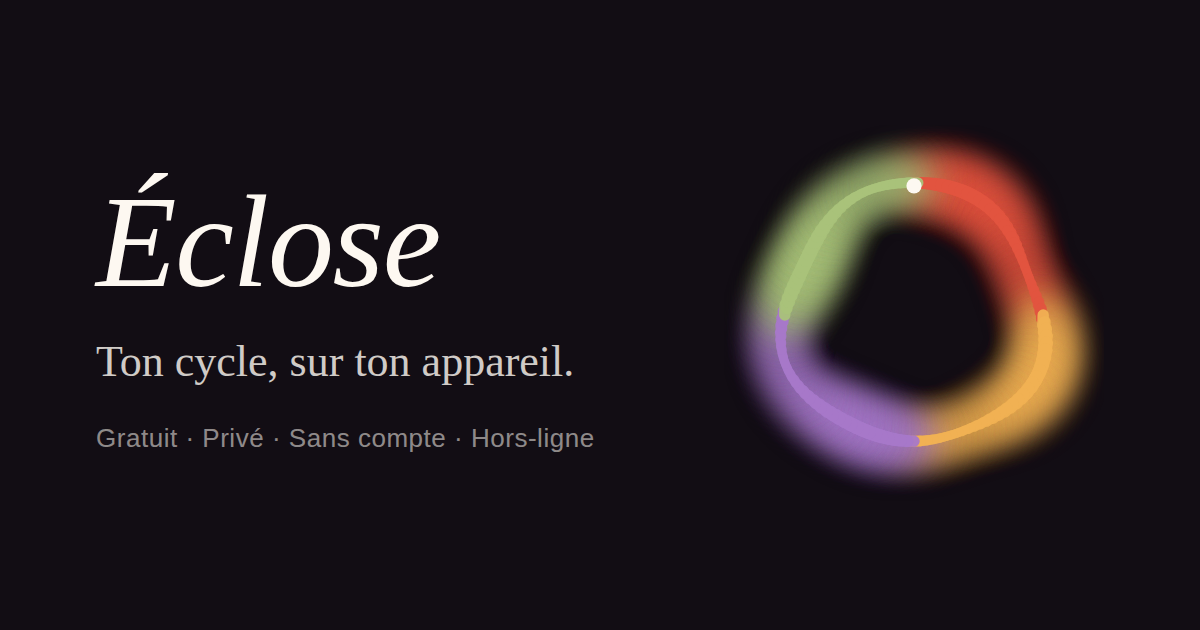
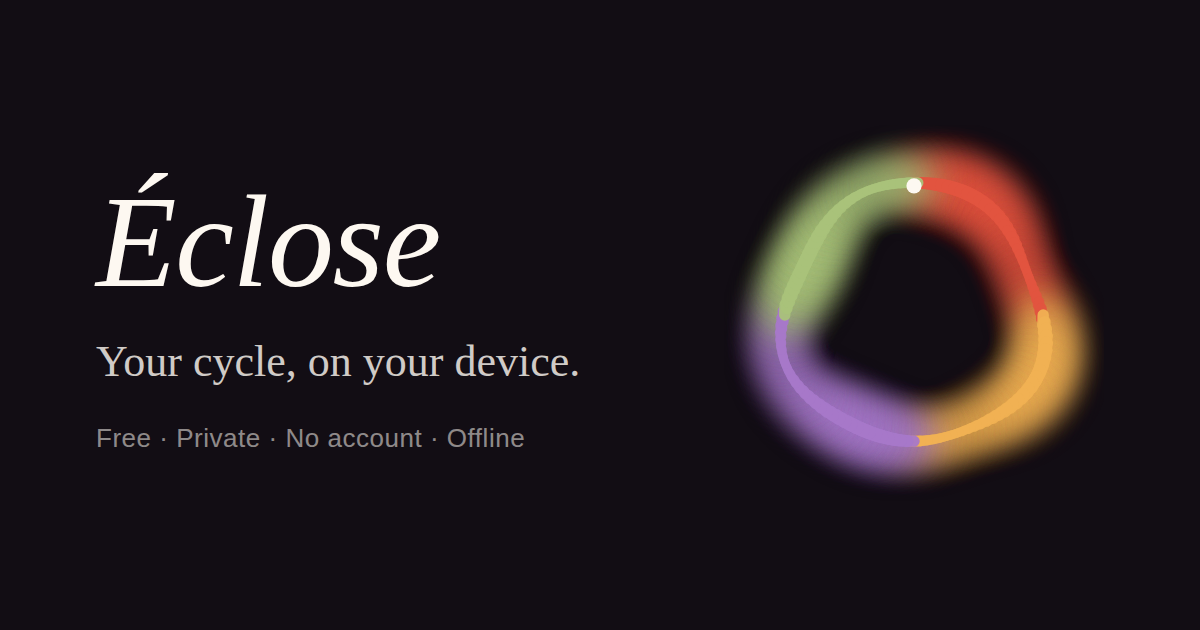
feat: make English the default language for SEO and the app
New users open the app in English (widest audience for sharing); French
stays one tap away in Settings.

- lib/config.ts: DEFAULT_LOCALE 'en', APP_DESCRIPTION and APP_KEYWORDS in
  English (the canonical tagline is now "Your cycle, on your device.").
- app/layout.tsx: <html lang="en">, OpenGraph locale en_GB (AppShell still
  overrides <html lang> to the user's chosen locale at runtime).
- Discover pages: x-default hreflang now points at /discover (English) so
  search engines serve English when no language matches.
- manifest: description + shortcut/screenshot labels sourced from en.
- Regenerate the share card and install screenshots in English.
- e2e: translate the French selectors to the new English default (the
  language-toggle flow now switches en → fr → en). Parity keeps its French
  seed to match the French reference prototype.

Claude-Session: https://claude.ai/code/session_01Kt8Bc7rrRivpuJFks7FxwY

Changed region(s): [[0.0617, 0.5429, 0.4933, 0.6333], [0.0617, 0.6635, 0.4933, 0.7238]]

diff --git a/e2e/backup-roundtrip.spec.ts b/e2e/backup-roundtrip.spec.ts
@@ -12,40 +12,40 @@ test('export chiffré, effacement, import : les données reviennent', async ({ p
   // — données : onboarding aujourd'hui + un symptôme
   const todayNum = String(new Date().getDate());
   await page.getByRole('button', { name: todayNum, exact: true }).click();
-  await page.getByRole('button', { name: 'commencer' }).click();
+  await page.getByRole('button', { name: 'begin' }).click();
   await page.getByRole('button', { name: 'fatigue' }).click();
 
   // — export
-  await page.getByRole('link', { name: 'réglages' }).click();
-  await page.getByRole('button', { name: /exporter mes données/ }).click();
-  await page.getByPlaceholder('phrase secrète', { exact: true }).fill('phrase de test e2e');
-  await page.getByPlaceholder('encore une fois').fill('phrase de test e2e');
+  await page.getByRole('link', { name: 'settings' }).click();
+  await page.getByRole('button', { name: /export my data/ }).click();
+  await page.getByPlaceholder('secret phrase', { exact: true }).fill('phrase de test e2e');
+  await page.getByPlaceholder('once more').fill('phrase de test e2e');
   const downloadPromise = page.waitForEvent('download');
-  await page.getByRole('dialog').getByRole('button', { name: 'exporter mes données' }).click();
+  await page.getByRole('dialog').getByRole('button', { name: 'export my data' }).click();
   const download = await downloadPromise;
   const filePath = await download.path();
   await page.keyboard.press('Escape');
 
   // — effacement total (double confirmation)
-  await page.getByRole('button', { name: 'tout effacer' }).click();
-  await page.getByRole('button', { name: 'effacer, vraiment ?' }).click();
-  await page.getByRole('button', { name: /dernière confirmation/ }).click();
-  await expect(page.getByText('Quand ont commencé tes dernières règles ?')).toBeVisible();
+  await page.getByRole('button', { name: 'erase everything' }).click();
+  await page.getByRole('button', { name: 'erase, really?' }).click();
+  await page.getByRole('button', { name: /last confirmation/ }).click();
+  await expect(page.getByText('When did your last period start?')).toBeVisible();
 
   // — import : préviu puis fusion
   await page.goto('/settings');
   const chooser = page.waitForEvent('filechooser');
-  await page.getByRole('button', { name: /importer un fichier/ }).click();
+  await page.getByRole('button', { name: /import a file/ }).click();
   await (await chooser).setFiles(filePath);
-  await page.getByPlaceholder('phrase secrète').fill('phrase de test e2e');
-  await page.getByRole('dialog').getByRole('button', { name: 'confirmer' }).click();
-  await expect(page.getByText(/1 cycles, 1 jours de logs/)).toBeVisible();
-  await page.getByRole('button', { name: 'fusionner' }).click();
-  await expect(page.getByText("c'est importé")).toBeVisible();
+  await page.getByPlaceholder('secret phrase').fill('phrase de test e2e');
+  await page.getByRole('dialog').getByRole('button', { name: 'confirm' }).click();
+  await expect(page.getByText(/1 cycles, 1 days of logs/)).toBeVisible();
+  await page.getByRole('button', { name: 'merge' }).click();
+  await expect(page.getByText('imported')).toBeVisible();
   await page.keyboard.press('Escape'); // fermer la feuille avant de naviguer
 
   // — tout est revenu : cadran à J1, symptôme coché
-  await page.getByRole('link', { name: "aujourd'hui" }).click();
+  await page.getByRole('link', { name: 'today' }).click();
   await expect(page.getByRole('button', { name: 'fatigue' })).toHaveAttribute(
     'aria-pressed',
     'true',

diff --git a/e2e/flows.spec.ts b/e2e/flows.spec.ts
@@ -6,39 +6,39 @@ test('corriger un jour dans l’historique, persistance, langue', async ({ page 
   await page.goto('/');
   const todayNum = String(new Date().getDate());
   await page.getByRole('button', { name: todayNum, exact: true }).click();
-  await page.getByRole('button', { name: 'commencer' }).click();
-  await page.getByText("aujourd'hui, en un geste").waitFor();
+  await page.getByRole('button', { name: 'begin' }).click();
+  await page.getByText('today, in one gesture').waitFor();
 
   // — historique : cycle en cours visible, correction du jour J1
-  await page.getByRole('link', { name: 'historique' }).click();
-  await page.getByText('cycle en cours').click();
+  await page.getByRole('link', { name: 'history' }).click();
+  await page.getByText('current cycle').click();
   await page.getByRole('button', { name: todayNum, exact: true }).click();
   const dialog = page.getByRole('dialog');
   await expect(dialog).toBeVisible();
-  await dialog.getByRole('button', { name: 'maux de tête' }).click();
-  await dialog.getByPlaceholder('une note pour ce jour, si tu veux').fill('note de test');
+  await dialog.getByRole('button', { name: 'headache' }).click();
+  await dialog.getByPlaceholder('a note for this day, if you like').fill('note de test');
   await page.keyboard.press('Escape');
   await expect(dialog).not.toBeVisible();
 
   // — persistance après rechargement
   await page.reload();
-  await page.getByText('cycle en cours').click();
+  await page.getByText('current cycle').click();
   await page.getByRole('button', { name: todayNum, exact: true }).click();
-  await expect(dialog.getByRole('button', { name: 'maux de tête' })).toHaveAttribute(
+  await expect(dialog.getByRole('button', { name: 'headache' })).toHaveAttribute(
     'aria-pressed',
     'true',
   );
-  await expect(dialog.getByPlaceholder('une note pour ce jour, si tu veux')).toHaveValue(
+  await expect(dialog.getByPlaceholder('a note for this day, if you like')).toHaveValue(
     'note de test',
   );
   await page.keyboard.press('Escape');
 
-  // — langue : l'app passe en anglais puis revient
-  await page.getByRole('link', { name: 'réglages' }).click();
-  await page.getByRole('button', { name: 'english' }).click();
-  await expect(page.getByRole('link', { name: 'today' })).toBeVisible();
+  // — langue : l'app (anglais par défaut) passe en français puis revient
+  await page.getByRole('link', { name: 'settings' }).click();
   await page.getByRole('button', { name: 'français' }).click();
   await expect(page.getByRole('link', { name: "aujourd'hui" })).toBeVisible();
+  await page.getByRole('button', { name: 'english' }).click();
+  await expect(page.getByRole('link', { name: 'today' })).toBeVisible();
 
   // — la version du build est affichée dans « à propos »
   await expect(page.getByText(/version \d+\.\d+\.\d+ · [0-9a-f]{7} · \d{4}-\d{2}-\d{2}/)).toBeVisible();

diff --git a/e2e/log-journey.spec.ts b/e2e/log-journey.spec.ts
@@ -7,20 +7,20 @@ test('onboarding une question, saisie en un geste, données persistées', async 
 
   // — onboarding : une seule question, date picker custom.
   // On choisit aujourd'hui → J1, phase menstruelle → chips par défaut stables.
-  await expect(page.getByText('Quand ont commencé tes dernières règles ?')).toBeVisible();
+  await expect(page.getByText('When did your last period start?')).toBeVisible();
   const todayNum = String(new Date().getDate());
   await page.getByRole('button', { name: todayNum, exact: true }).click();
-  await page.getByRole('button', { name: 'commencer' }).click();
+  await page.getByRole('button', { name: 'begin' }).click();
 
   // — cadran : jour du cycle affiché, phrase contextuelle, prédiction honnête
-  await expect(page.getByText("aujourd'hui, en un geste")).toBeVisible();
+  await expect(page.getByText('today, in one gesture')).toBeVisible();
   await expect(page.locator('canvas')).toBeVisible();
-  await expect(page.getByText(/Prochaines règles|prédiction/)).toBeVisible();
+  await expect(page.getByText(/Next period|prediction/i)).toBeVisible();
 
-  // — saisie : chip règles, deux taps → intensité 2, « c'est noté »
-  const flowChip = page.getByRole('button', { name: /règles/ });
+  // — saisie : chip règles, deux taps → intensité 2, « noted »
+  const flowChip = page.getByRole('button', { name: /period/i });
   await flowChip.click();
-  await expect(page.getByText("c'est noté")).toBeVisible();
+  await expect(page.getByText('noted')).toBeVisible();
   await flowChip.click();
   await expect(flowChip).toHaveAttribute('aria-pressed', 'true');
 
@@ -30,13 +30,13 @@ test('onboarding une question, saisie en un geste, données persistées', async 
   // — feuille de phase au clavier (zone tactile SVG focusable), fermeture backdrop
   await page.locator('svg [role="button"]').first().press('Enter');
   await expect(page.getByRole('dialog')).toBeVisible();
-  await expect(page.getByText('Tes patterns', { exact: true })).toBeVisible();
+  await expect(page.getByText('Your patterns', { exact: true })).toBeVisible();
   await page.mouse.click(10, 10);
   await expect(page.getByRole('dialog')).not.toBeVisible();
 
   // — persistance : rechargement, tout est encore là (IndexedDB)
   await page.reload();
-  const flowAfter = page.getByRole('button', { name: /règles/ });
+  const flowAfter = page.getByRole('button', { name: /period/i });
   await expect(flowAfter).toHaveAttribute('aria-pressed', 'true');
   await expect(page.getByRole('button', { name: 'fatigue' })).toHaveAttribute(
     'aria-pressed',

diff --git a/app/manifest.ts b/app/manifest.ts
@@ -1,7 +1,7 @@
 import type { MetadataRoute } from 'next';
 import { APP_NAME, APP_DESCRIPTION, THEME_COLOR } from '@/lib/config';
-// le manifest est statique : comme APP_DESCRIPTION, il parle la langue par défaut
-import fr from '@/i18n/fr.json';
+// le manifest est statique : comme APP_DESCRIPTION, il parle la langue par défaut (anglais, §SEO)
+import en from '@/i18n/en.json';
 
 export const dynamic = 'force-static';
 
@@ -25,21 +25,21 @@ export default function manifest(): MetadataRoute.Manifest {
         sizes: '820x1760',
         type: 'image/png',
         form_factor: 'narrow',
-        label: fr.manifest.screenshot_today,
+        label: en.manifest.screenshot_today,
       },
       {
         src: '/screenshots/phase.png',
         sizes: '820x1760',
         type: 'image/png',
         form_factor: 'narrow',
-        label: fr.manifest.screenshot_phase,
+        label: en.manifest.screenshot_phase,
       },
     ],
     // appui long sur l'icône installée → saisie directe (le SW sert /?log=1 hors-ligne)
     shortcuts: [
       {
-        name: fr.manifest.shortcut_log,
-        description: fr.manifest.shortcut_log_desc,
+        name: en.manifest.shortcut_log,
+        description: en.manifest.shortcut_log_desc,
         url: '/?log=1',
         icons: [{ src: '/icons/icon-192.png', sizes: '192x192', type: 'image/png' }],
       },

diff --git a/lib/config.ts b/lib/config.ts
@@ -5,7 +5,7 @@
 export const APP_NAME = 'Éclose';
 export const APP_DOMAIN = 'eclose.app';
 export const APP_URL = `https://${APP_DOMAIN}`;
-export const APP_DESCRIPTION = 'Ton cycle, sur ton appareil.';
+export const APP_DESCRIPTION = 'Your cycle, on your device.';
 export const THEME_COLOR = '#120d14';
 
 /** Code source public (logiciel libre, AGPL-3.0). Lien externe uniquement —
@@ -17,19 +17,20 @@ export const REPO_URL = 'https://github.com/Meg4mi/eclosia';
 export const SUPPORT_URL = 'https://liberapay.com/Meg4mi';
 
 /** Mots-clés statiques pour le référencement (métadonnées de build, jamais
- * rendus dans l'UI). Registre calme, jamais médical ni contraceptif (§non-objectifs). */
+ * rendus dans l'UI). Langue par défaut = anglais (§SEO). Registre calme,
+ * jamais médical ni contraceptif (§non-objectifs). */
 export const APP_KEYWORDS = [
-  'suivi de cycle',
-  'cycle menstruel',
-  'règles',
-  'confidentialité',
-  'hors-ligne',
-  'sur l’appareil',
-  'sans compte',
+  'cycle tracker',
+  'menstrual cycle',
+  'period',
+  'privacy',
+  'offline',
+  'on-device',
+  'no account',
   'PWA',
 ] as const;
 
-export const DEFAULT_LOCALE = 'fr' as const;
+export const DEFAULT_LOCALE = 'en' as const;
 export const DEFAULT_PERIOD_LENGTH = 5;
 export const DEFAULT_CYCLE_LENGTH = 28;
 

diff --git a/e2e/network-audit.spec.ts b/e2e/network-audit.spec.ts
@@ -23,13 +23,14 @@ test('aucune requête externe, du boot à la navigation complète', async ({ pag
   booted = true;
 
   // parcours complet : onboarding → cadran → navigation → réglages
-  await page.getByRole('button', { name: 'je ne sais plus' }).click();
-  await expect(page.getByText("aujourd'hui, en un geste")).toBeVisible();
-  await page.getByRole('link', { name: 'historique' }).click();
+  // (langue par défaut = anglais, §SEO)
+  await page.getByRole('button', { name: "I don't remember" }).click();
+  await expect(page.getByText('today, in one gesture')).toBeVisible();
+  await page.getByRole('link', { name: 'history' }).click();
   await page.waitForLoadState('networkidle');
-  await page.getByRole('link', { name: 'réglages' }).click();
+  await page.getByRole('link', { name: 'settings' }).click();
   await page.waitForLoadState('networkidle');
-  await page.getByRole('link', { name: "aujourd'hui" }).click();
+  await page.getByRole('link', { name: 'today' }).click();
   await page.waitForLoadState('networkidle');
 
   expect(external, `requêtes externes détectées : ${external.join(', ')}`).toEqual([]);

diff --git a/app/layout.tsx b/app/layout.tsx
@@ -48,7 +48,7 @@ export const metadata: Metadata = {
   },
   openGraph: {
     type: 'website',
-    locale: 'fr_FR',
+    locale: 'en_GB',
     url: '/',
     siteName: APP_NAME,
     title: APP_NAME,
@@ -72,7 +72,7 @@ export const viewport: Viewport = {
 
 export default function RootLayout({ children }: { children: React.ReactNode }) {
   return (
-    <html lang="fr" className={`${fraunces.variable} ${newsreader.variable}`}>
+    <html lang="en" className={`${fraunces.variable} ${newsreader.variable}`}>
       <body>{children}</body>
     </html>
   );

diff --git a/app/decouvrir/page.tsx b/app/decouvrir/page.tsx
@@ -11,7 +11,7 @@ export const metadata: Metadata = {
   description,
   alternates: {
     canonical: '/decouvrir',
-    languages: { fr: '/decouvrir', en: '/discover', 'x-default': '/decouvrir' },
+    languages: { fr: '/decouvrir', en: '/discover', 'x-default': '/discover' },
   },
   openGraph: {
     type: 'website',

diff --git a/app/discover/page.tsx b/app/discover/page.tsx
@@ -11,7 +11,7 @@ export const metadata: Metadata = {
   description,
   alternates: {
     canonical: '/discover',
-    languages: { fr: '/decouvrir', en: '/discover', 'x-default': '/decouvrir' },
+    languages: { fr: '/decouvrir', en: '/discover', 'x-default': '/discover' },
   },
   openGraph: {
     type: 'website',
